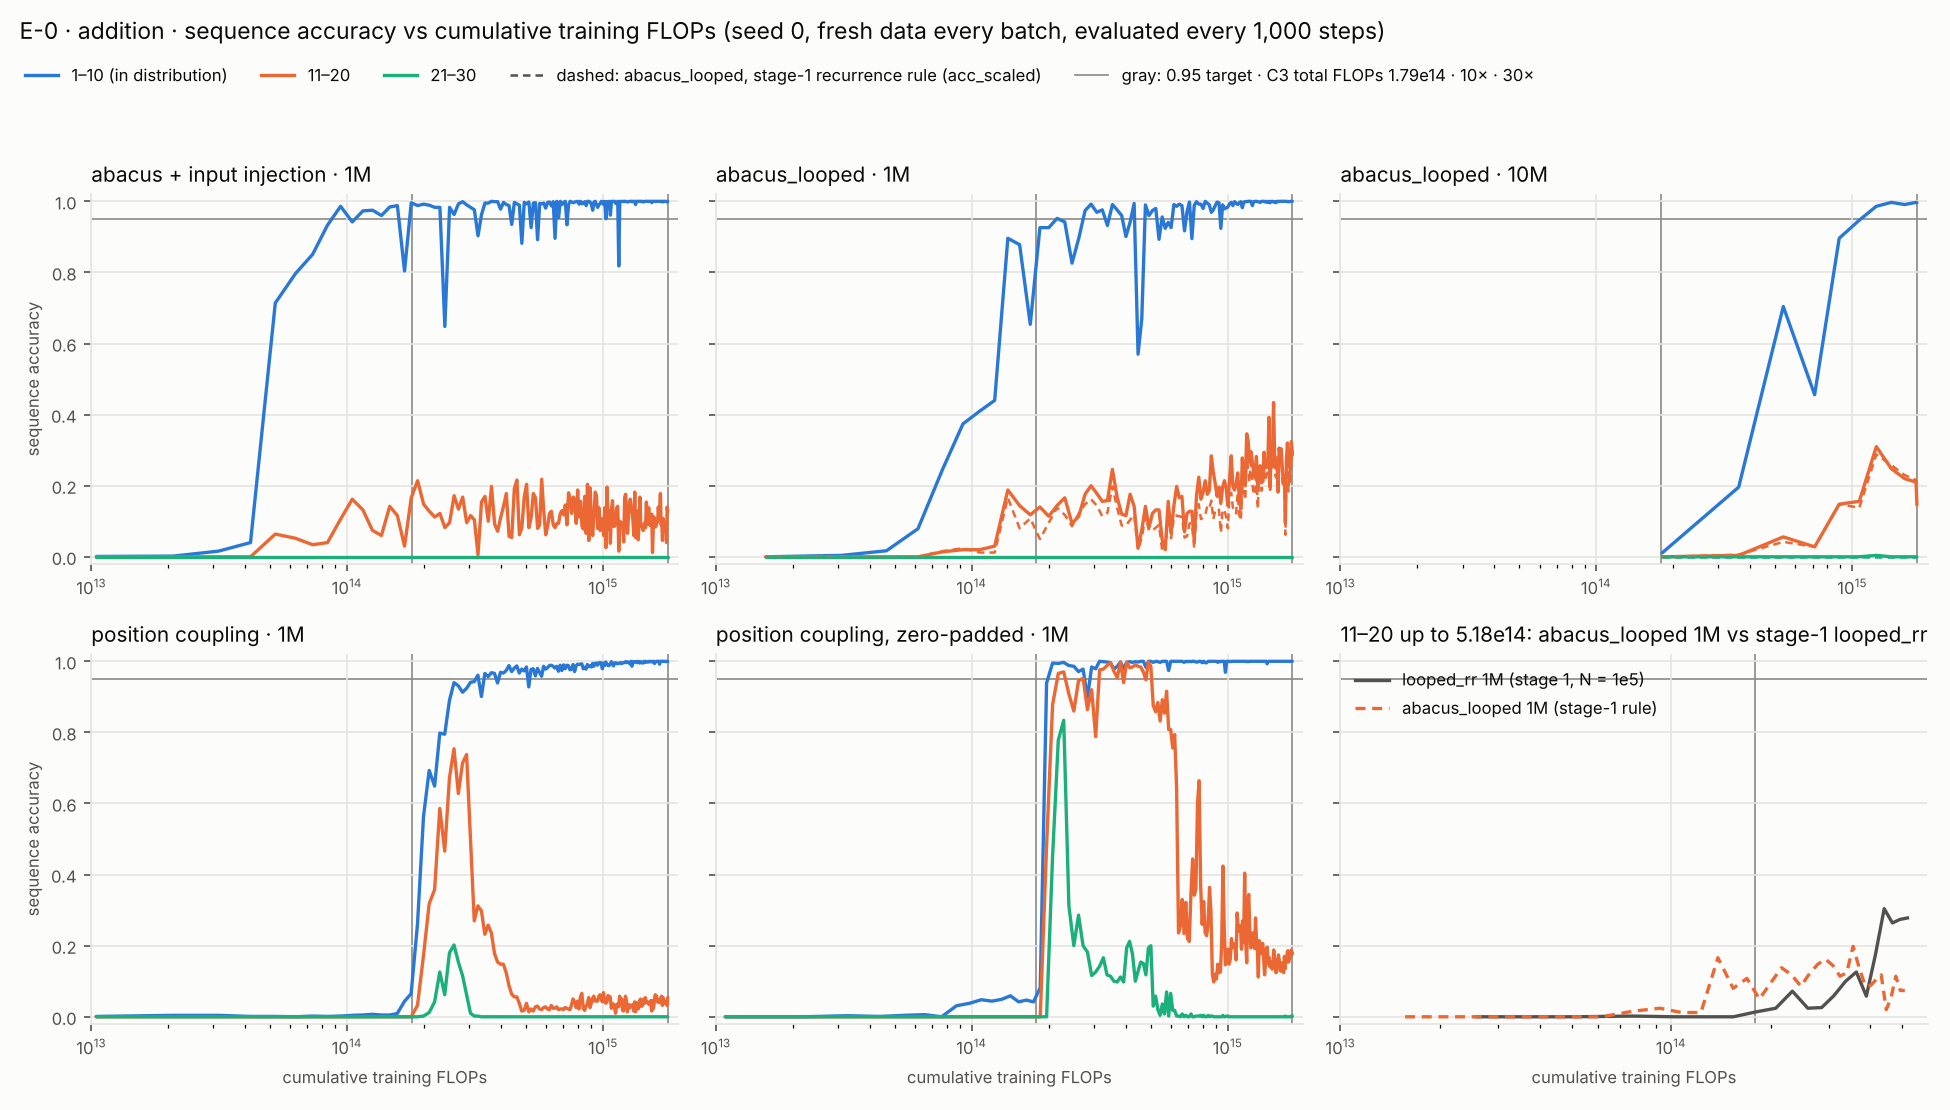
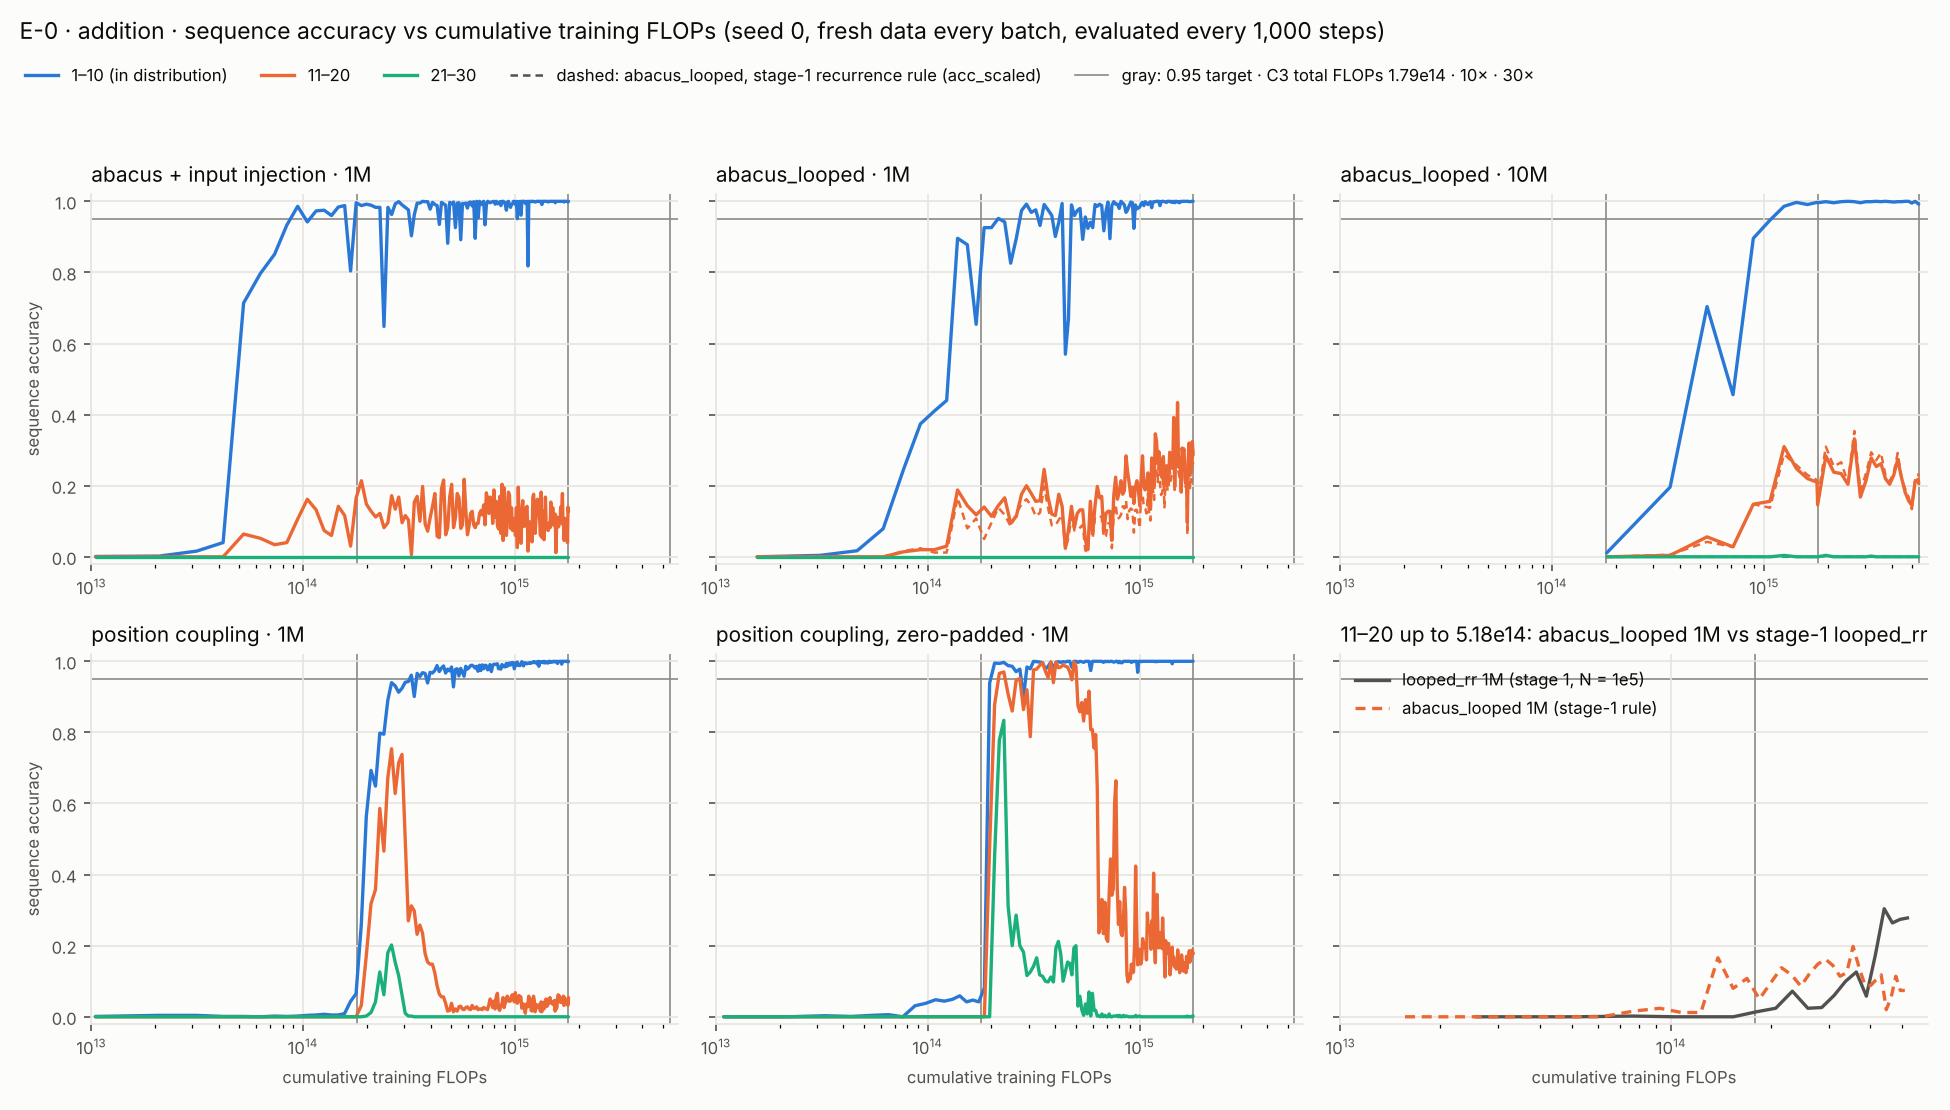
stage2 E-0: 30x extension of abacus_looped_10M not reached at 5.37e15 (best 11-20 0.354, 21-30 0.004); RESULTS entry, summary, curves
Claude-Session: https://claude.ai/code/session_01VSWBvg7gXA6QqLM5pig7M5

diff --git a/stage2/RESULTS.md b/stage2/RESULTS.md
@@ -310,3 +310,58 @@
   - **abacus_looped 10M의 곡선 해상도:** 1,000 step마다 평가하므로 10M은 평가 간격이 약 1.78e14 FLOPs(C3 합계 FLOPs와 비슷)이고, 10배까지 평가가 11개뿐이다. 오라클 도달 시점의 해상도도 그만큼 거칠다.
   - **스레드:** 10배 단계는 4코어에서 다섯 프로세스를 1스레드씩 함께 돌렸다. 30배 연장은 혼자 돌아서 4스레드를 쓴다(한 step 0.76초 vs 1스레드 2.15초 측정). FLOPs 계산과 방법은 같고, 시간만 바뀐다.
   - **시간:** 10배 단계 실제 경과 약 11.9시간(2026-11-19 12:46 – 2026-11-20 00:40). 연장 예상 약 6시간. 합계 약 18시간으로 48시간 상한 안이다.
+
+## 2026-11-20 · E-0 기준선 효율 곡선 (덧셈) · 30배 연장 (abacus_looped 10M)
+- 질문: 위 10배 단계 항목과 같다. 5.1절대로 10배에서 어떤 일반 방법도 도달하지 못해, 5.3절 동점 처리로 고른 abacus_looped 10M 하나를 30배(5.37e15)까지 이어 학습했다.
+- 질문에 대한 답: **30배 이상 (하한만 정해짐).** abacus_looped 10M은 5.37e15(C3 합계 FLOPs의 30.0배)까지 반복 2와 acc_scaled 어느 규칙으로도 도달하지 못했다. 5.1절 사전 규칙의 "30배에서도 미도달" 경우다. 30배까지 늘린 일반 방법은 이 하나뿐이다. abacus + 입력 주입 1M과 abacus_looped 1M은 5.1절대로 10배에서 멈췄으므로, 두 실행에 대해 알려진 것은 10배 이상이라는 것뿐이다. 판정은 설계 채팅이 한다.
+- 코드 커밋: `stage2/e0.py` `21c2b96`(`--extend --budget 5.37e15 --threads 4`, 마지막 체크포인트 step 10,077에서 재개), 연장 대상 선택 `stage2/e0_extend_pick.py` `45d4a44`. 연장 원자료 커밋 `0839c0e`.
+  - 원자료: `stage2/results/e0/e0_abacus_looped_10M/` (`log.jsonl`에 10배 단계에 이어 붙임, 10배 판정 값 `final.json`은 그대로 두고 연장 결과는 `final_extend_5.37e+15.json`), 합본 `summary.json`, 곡선 `curves.png`, 큐 기록 `QUEUE_LOG.txt`.
+- 연장 조건: 10배 단계와 같다(시드 0, 매 배치 새 데이터 1–10자리, 1단계 평가 세트·시퀀스 정답 채점, 1,000 step마다 평가, 5.2절 도달 판정). 옵티마이저·데이터 난수 상태는 체크포인트에서 이어 간다. 학습률 일정은 1.79e15 예산 기준 그대로라 1.79e15 이후는 코사인 끝값 5e-5(기준 5e-4의 10 %)로 고정됐다. 일정을 다시 시작하지 않았다.
+
+- 결과 표 (30배 시점 = 마지막 평가):
+
+| 과제 | 기준선 | 규모 (매개변수) | 데이터 수 (= step × 64) | 분포 안 정확도 | 분포 밖 정확도 11–20 · 21–30 · 31–40 | 학습 FLOPs | 시간 (학습 + 평가) |
+|---|---|---|---|---|---|---|---|
+| 덧셈 | abacus_looped 8×2 (일반) | 10M (10,023,360) | 1,930,688 (30,167 step; 연장분 20,090 step, 1,285,760개) | 0.992 | 반복 2: 0.206 · 0.000 · 0.000 / acc_scaled: 0.226 · 0.000 · 0.000 | 5.370e15 (30.0 × C3) | 누적 10.9 h (10배까지 7.6 h 1스레드 + 연장 3.4 h 4스레드) |
+
+- 도달 시점: **도달하지 못했다** (반복 2, acc_scaled, 5.2절 둘 중 이른 쪽 모두).
+- 연장 구간 곡선 (1,000 step마다 평가; 분포 안 / 11–20 / 21–30, 괄호는 acc_scaled 11–20 / 21–30; 31–40은 모든 평가에서 두 규칙 모두 0.000):
+
+| step | 학습 FLOPs (× C3) | 반복 2 | acc_scaled |
+|---|---|---|---|
+| 10,077 | 1.790e15 (10.00) | 0.996 / 0.146 / 0.000 | (0.162 / 0.000) |
+| 11,000 | 1.956e15 (10.93) | 0.999 / 0.284 / 0.004 | (0.310 / 0.002) |
+| 12,000 | 2.133e15 (11.92) | 0.996 / 0.238 / 0.000 | (0.254 / 0.000) |
+| 13,000 | 2.311e15 (12.91) | 0.999 / 0.234 / 0.000 | (0.266 / 0.002) |
+| 14,000 | 2.488e15 (13.90) | 1.000 / 0.204 / 0.000 | (0.208 / 0.000) |
+| 15,000 | 2.668e15 (14.90) | 0.999 / **0.332** / 0.000 | (**0.354** / 0.002) |
+| 16,000 | 2.847e15 (15.91) | 0.996 / 0.168 / 0.000 | (0.186 / 0.000) |
+| 17,000 | 3.026e15 (16.90) | 0.999 / 0.214 / 0.000 | (0.234 / 0.000) |
+| 18,000 | 3.204e15 (17.90) | 0.999 / 0.278 / 0.002 | (0.294 / 0.000) |
+| 19,000 | 3.384e15 (18.91) | 1.000 / 0.254 / 0.000 | (0.272 / 0.000) |
+| 20,000 | 3.564e15 (19.91) | 0.999 / 0.262 / 0.000 | (0.292 / 0.000) |
+| 21,000 | 3.739e15 (20.89) | 1.000 / 0.220 / 0.000 | (0.230 / 0.000) |
+| 22,000 | 3.915e15 (21.87) | 0.999 / 0.204 / 0.000 | (0.212 / 0.000) |
+| 23,000 | 4.094e15 (22.87) | 0.998 / 0.230 / 0.000 | (0.236 / 0.000) |
+| 24,000 | 4.273e15 (23.87) | 0.999 / 0.274 / 0.000 | (0.292 / 0.000) |
+| 25,000 | 4.450e15 (24.86) | 0.999 / 0.224 / 0.000 | (0.222 / 0.000) |
+| 26,000 | 4.629e15 (25.86) | 1.000 / 0.182 / 0.000 | (0.192 / 0.000) |
+| 27,000 | 4.808e15 (26.86) | 1.000 / 0.158 / 0.000 | (0.168 / 0.000) |
+| 28,000 | 4.984e15 (27.84) | 0.995 / 0.144 / 0.000 | (0.134 / 0.000) |
+| 29,000 | 5.165e15 (28.85) | 1.000 / 0.212 / 0.000 | (0.216 / 0.000) |
+| 30,000 | 5.341e15 (29.84) | 0.993 / 0.218 / 0.000 | (0.232 / 0.000) |
+| 30,167 | 5.370e15 (30.00) | 0.992 / 0.206 / 0.000 | (0.226 / 0.000) |
+
+  - 실행 전체(10배 단계 포함) 최고: 11–20 반복 2 0.332, acc_scaled 0.354(둘 다 step 15,000, 2.668e15 = 14.90배). 21–30 반복 2 0.004(step 7,000과 11,000; 500개 중 2개), acc_scaled 0.002(step 11,000·13,000·15,000).
+  - 도달 조건에 가장 가까운 평가(min(11–20, 21–30), 두 규칙 중 높은 쪽): 10배 단계와 같은 step 7,000(1.242e15, 6.94배; 0.986 / 0.310 / 0.004). 연장으로 바뀌지 않았다.
+  - 연장 구간에서 분포 안은 0.992–1.000, 학습 손실 평균은 0.0009–0.0031이었다. 11–20은 0.144–0.332(반복 2) 사이를 오갔고 오르는 추세는 없었다. 21–30은 평가 21개 중 18개에서 두 규칙 모두 0.000이었다.
+
+- 5.1절 판정 규칙에 대한 상태 (판정은 설계 채팅):
+  - 일반 방법: 10배 안에서 도달한 것이 없고, 30배까지 늘린 abacus_looped 10M도 30배에서 도달하지 못했다. 5.1절의 "30배에서도 미도달: 일반 방법 대비 ≥30배" 경우다.
+  - 상한 참조(10배 단계 항목 그대로): position coupling 두 실행 모두 C3 FLOPs 이하에서도, 10배 안에서도 도달하지 못했다(5.1절대로 연장하지 않음). 가장 가까운 평가는 0 채움 판 step 21,000(1.28배)의 11–20 0.970 · 21–30 0.834였다.
+- 이상 사항 / 중단·재개 기록:
+  - **계획된 끊기 1회:** 연장은 구간 4(2026-11-20 00:41:01 시작, step 10,077)와 구간 5(02:36:18 시작, step 21,401) 두 구간으로 돌았다. step 21,401(3.809e15)에서 6,900초 한도로 끊고 체크포인트에서 재개했다(`log.jsonl`의 `cut`·`resume`). 04:05:16에 예산 5.370e15로 끝났다(`stopped: budget`).
+  - **스레드:** 연장은 혼자 돌아 4스레드를 썼다. 연장분 학습 11,006초(step당 0.548초), 평가 1,227초.
+  - **시간 정정:** 10배 단계 항목의 "연장 예상 약 6시간"과 달리 실제 연장 경과는 약 3.4시간(00:40:55–04:05:16)이었다. E-0 전체 실제 경과는 약 15.3시간(2026-11-19 12:46 – 2026-11-20 04:05)으로 48시간 상한 안이다.
+  - **학습률:** 연장 구간 전체가 학습률 5e-5 고정이었다(위 연장 조건). 10배 단계 항목에는 적지 않았던 조건이다.
+  - **곡선 해상도:** 10M은 평가 간격이 약 1.78e14 FLOPs다. 연장 구간 평가는 21개다.
